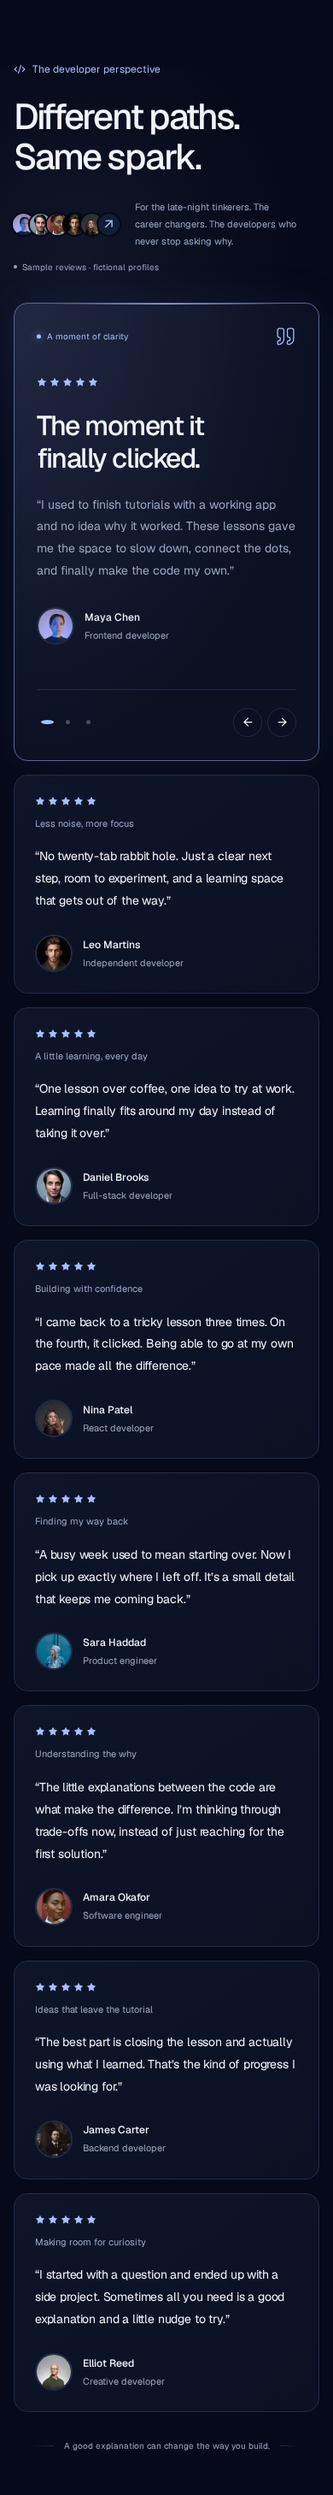
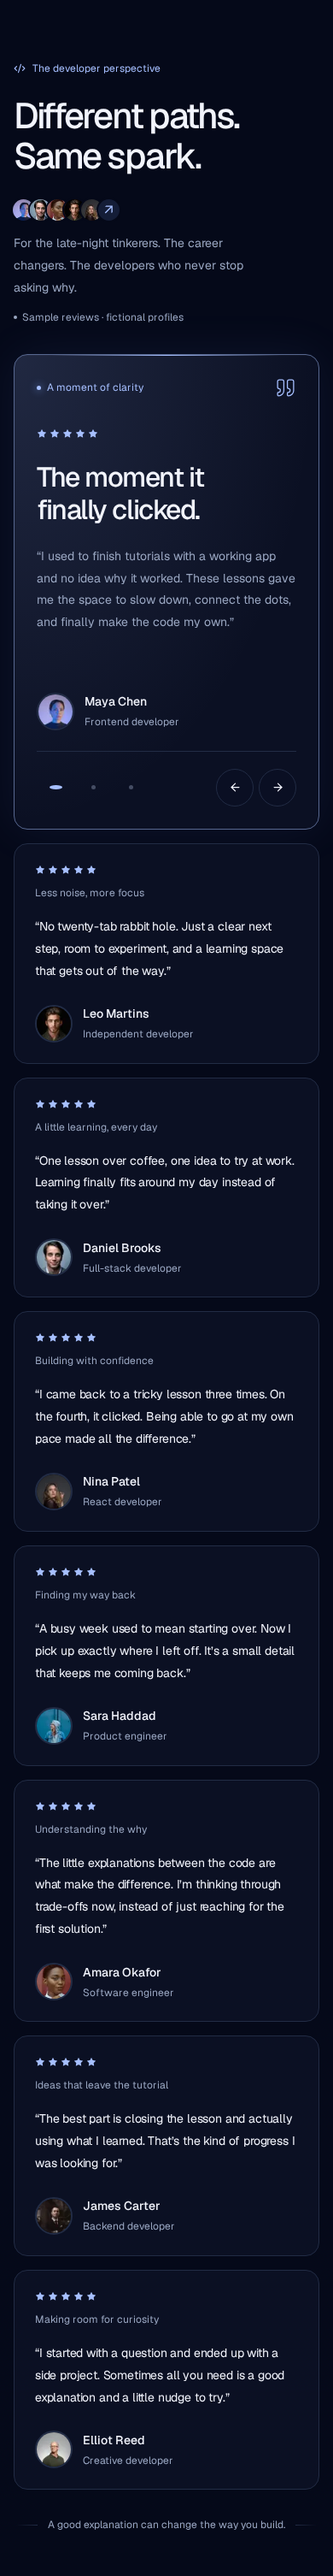
docs(design): record frontend review and refresh visual evidence

diff --git a/docs/design-system.md b/docs/design-system.md
@@ -37,27 +37,28 @@ New visitors see dark mode. The header toggle allows light mode; `next-themes` p
 - **Section titles:** `text-3xl sm:text-4xl font-medium tracking-[-.045em]` through `SectionHeading`.
 - **Card titles:** 18–20px, medium/semibold, tight tracking.
 - **Body:** 14–16px with 1.7–1.85 line height. Use `text-muted-foreground` for secondary copy.
-- **Metadata:** 12px. The scaled product demo uses smaller labels; regular application interfaces should retain readable 12–14px labels.
-- **Eyebrow:** `.eyebrow` uses 11px, uppercase, 0.18em tracking, primary color.
+- **Metadata:** 12px. The interactive demo uses 12px labels and 13–14px reading and control text; only its decorative window bar reduces to 11px on mobile.
+- **Eyebrow:** `.eyebrow` uses 12px, sentence case, medium weight, and primary color. Keep these labels short and useful; step numbers belong to the learning sequence.
 - **Spacing:** Tailwind's 4px grid. Use 16–24px gaps, 24–32px card padding, 64–96px section spacing.
 - **Container:** `.shell` caps content at `--page-width: 1120px`; gutters are 24px, falling to 16px on small screens.
 - **Radii:** `rounded-control` = 10px; `rounded-card` = 16px; `rounded-panel` = 24px. Pills are for badges and circular indicators.
 
 ## Components
 
-| Component                 | API / guidance                                                                                                                                                                                             |
-| ------------------------- | ---------------------------------------------------------------------------------------------------------------------------------------------------------------------------------------------------------- |
-| `Brand`                   | Shared star mark and Baela wordmark. Wrap in a home link with `aria-label="Baela home"`.                                                                                                                   |
-| `Button`                  | `variant`: default, secondary, outline, ghost, destructive. `size`: default, sm, lg, icon. Use `asChild` for links. Primary gets a subtle blue gradient and inset highlight.                               |
-| `Card` / `CardContent`    | Theme-aware surface and fine outline. `CardContent` provides 24px padding.                                                                                                                                 |
-| `Badge`                   | `variant`: default, muted, success. A compact status pill; use explicit readable text.                                                                                                                     |
-| `SectionHeading`          | Required `eyebrow` and `title`; optional `description`, `centered`, `className`, `id`.                                                                                                                     |
-| `LearningProgress`        | `value` (0–100), optional `label` and `className`. Clamps invalid values and supplies an accessible native progress bar with percentage.                                                                   |
-| `CourseCard`              | Real course title, summary, optional cover/price/progress. Supports an explicit `href`. Shares tokens with the dashboard.                                                                                  |
-| `.field` / `.field-label` | Theme-aware inputs, selects, textareas, and label spacing with visible focus.                                                                                                                              |
-| `LessonCurriculum`        | Existing desktop sidebar and mobile dialog inherit the palette; selected, completed, and locked states remain explicit.                                                                                    |
-| `TestimonialCard`         | `review`: name, role, local image, quote, subject, highlight. Theme-aware review surface with portrait, star row, and hover light. `ReviewAuthor` and `ReviewStars` can be composed into a featured story. |
-| `Faq`                     | `items`: question / ReactNode answer pairs; optional `className`. Native `details` and `summary` provide keyboard-accessible disclosure without client JavaScript.                                         |
+| Component                 | API / guidance                                                                                                                                                                                                   |
+| ------------------------- | ---------------------------------------------------------------------------------------------------------------------------------------------------------------------------------------------------------------- |
+| `Brand`                   | Shared star mark and Baela wordmark. Wrap in a home link with `aria-label="Baela home"`.                                                                                                                         |
+| `Button`                  | `variant`: default, secondary, outline, ghost, destructive. `size`: default, sm, lg, icon. Use `asChild` for links. Icon controls have a 44px target; primary actions use the semantic fill and inset highlight. |
+| `SiteHeaderContent`       | Shared header presentation with `signedIn` and `admin` props. `SiteHeader` supplies the real session; the gallery renders all three account variants for responsive inspection.                                  |
+| `Card` / `CardContent`    | Theme-aware surface and fine outline. `CardContent` provides 24px padding.                                                                                                                                       |
+| `Badge`                   | `variant`: default, muted, success. A compact status pill; use explicit readable text.                                                                                                                           |
+| `SectionHeading`          | Required `eyebrow` and `title`; optional `description`, `centered`, `className`, `id`.                                                                                                                           |
+| `LearningProgress`        | `value` (0–100), optional `label` and `className`. Clamps invalid values and supplies an accessible native progress bar with percentage.                                                                         |
+| `CourseCard`              | Real course title, summary, optional cover/price/progress. Supports an explicit `href`. Shares tokens with the dashboard.                                                                                        |
+| `.field` / `.field-label` | Theme-aware inputs, selects, textareas, and label spacing with visible focus.                                                                                                                                    |
+| `LessonCurriculum`        | Existing desktop sidebar and mobile dialog inherit the palette; selected, completed, and locked states remain explicit.                                                                                          |
+| `TestimonialCard`         | `review`: name, role, local image, quote, subject. Quiet theme-aware review surface with portrait and star row. `ReviewAuthor` and `ReviewStars` can be composed into a featured story.                          |
+| `Faq`                     | `items`: question / ReactNode answer pairs; optional `className`. Native `details` and `summary` provide keyboard-accessible disclosure without client JavaScript.                                               |
 
 ```tsx
 import { Card, CardContent } from "@/components/ui/card";
@@ -91,7 +92,7 @@ Use restrained surfaces in learning screens. Reserve the large horizon, broad gl
 
 ## Interaction and accessibility
 
-Use real links for navigation and buttons for state changes. Keep focus rings visible, icon-only controls labeled, inputs associated with labels, and progress labeled. Use a single H1 and ordered heading levels. The mobile navigation exposes `aria-expanded`; the skip link targets the main content. Honor `prefers-reduced-motion`. No demo animation auto-plays.
+Use real links for navigation and buttons for state changes. Keep focus rings visible, icon-only controls labeled, inputs associated with labels, and progress labeled. Use a single H1 and ordered heading levels. The mobile navigation exposes `aria-expanded` and a unique disclosure ID. Escape closes it and returns focus to the trigger; outside interaction, moving focus away, choosing a destination, and resizing to desktop dismiss it. It uses a disclosure rather than a modal focus trap. The skip link targets the main content. Honor `prefers-reduced-motion`. No demo animation auto-plays.
 
 Buttons, links, selects, checkbox/radio inputs, and expandable summaries use a pointer cursor. The shared `Button` declares it explicitly, including when rendered through `asChild`. Disabled buttons keep native disabled behavior and opacity; they do not use `pointer-events: none`, which would pass hovering through to the default page cursor.
 
@@ -99,11 +100,13 @@ The landing preview is explicitly labeled **Interactive demo / Sample content**.
 
 ## Reviews and FAQ patterns
 
-`DeveloperReviews` adds a staggered three-column wall and a larger featured quote. The layout was inspired by [21st.dev’s Testimonials with Marquee](https://21st.dev/@serafimcloud/components/testimonials-with-marquee) and its [testimonial section guide](https://mcp.21st.dev/blog/react-testimonial-section-components), implemented locally using existing components and CSS. It adds no animation-library dependency. Featured stories advance only through user actions; labeled arrows and selection buttons work with the keyboard, and updates use a polite live region. Story transitions respect reduced-motion settings.
+`DeveloperReviews` adds a staggered three-column wall and a larger featured quote. Tablet rows use at most two columns; mobile stories stack. The layout was inspired by [21st.dev’s Testimonials with Marquee](https://21st.dev/@serafimcloud/components/testimonials-with-marquee) and its [testimonial section guide](https://mcp.21st.dev/blog/react-testimonial-section-components), implemented locally using existing components and CSS. It adds no animation-library dependency. Featured stories advance only through user actions; labeled arrows and selection buttons have 44px touch targets and work with the keyboard. A persistent polite status region announces the author and quote, while the visible figure caption stays a direct child of the figure. Story transitions respect reduced-motion settings. Passive review cards do not animate or glow on hover.
 
 Review data lives in `components/landing/reviews-data.ts`. Names, developer roles, quotes, and star ratings are illustrative, visibly labeled **Sample reviews · fictional profiles**. Portraits are locally served stock photos; see `public/images/community/README.md`. Replace the data with consented, verified student feedback before presenting the section as actual endorsements. Do not attach structured-data ratings or claim learner counts to the sample content.
 
 `LearningFaq` uses the reusable `Faq` with six product questions. Keep answers aligned with implemented access, account, preview, and enrollment behavior. On mobile, the intro and disclosures stack; regular application FAQ text uses readable 13–14px type.
+
+The Open Graph image uses bundled Geist, the midnight palette, and the horizon. `app/icon.svg` is the editable star-mark source; `app/favicon.ico` contains 16px, 32px, and 48px versions of the same mark. Both are served through Next.js metadata file conventions.
 
 ## Extending the system
 

diff --git a/docs/frontend-review.md b/docs/frontend-review.md
@@ -1,0 +1,41 @@
+# Horizon frontend review
+
+## Design plan
+
+Continue the accepted reference rather than start a new identity. Baela is a course platform: the landing page should let a visitor understand the learning experience, try a lesson, and find a course or access plan.
+
+- Palette: midnight `#050919`, panel navy `#0b1023`, reading white `#f2f4fc`, horizon blue `#a6bfff`, supporting slate `#9aa7c2`, daylight `#f5f7fc`. Use the existing semantic tokens in both themes.
+- Type: bundled Geist Sans remains the single family. Its compact display proportions suit the horizon; normal tracking and sentence case make navigation and supporting labels easier to scan. Keep the large hero and give the functional demo readable text.
+- Layout: centered hero and preview; quiet course and plan sections; a staggered review wall; left-aligned FAQ. The header uses normal flow so extra account links have real space.
+
+```text
+Brand        Courses / How it works / Reviews / Pricing        Account actions
+                         illuminated horizon
+                         heading and actions
+                         interactive lesson preview
+                learning steps / real course collection
+              featured story | sample reviews | sample reviews
+                         three access options
+               questions intro | expandable answers
+                         final course action
+```
+
+On a narrow screen, the header becomes a dismissible disclosure, the preview becomes a readable single column, and stories, plans, and questions stack.
+
+## Review against the brief
+
+The blue horizon is the memorable element already approved by the user. Keep it and the hero composition. The quieter sections should not compete with it: remove hover glows from passive review cards, reduce decorative labels, and preserve meaningful step numbering only for the learning sequence. The fictional review disclosure remains clearly visible. Keep course data, access checks, and checkout states intact.
+
+The initial production review at 320, 390, 768, 1024, and 1440px found no page overflow or runtime errors in either theme. Escape did not dismiss the mobile navigation. Source review also found a remounted review live region, a nested figure caption, 24–34px review controls, and branding assets from the previous palette. These are the focus of the quality pass.
+
+## Final critique
+
+The horizon and centered hero remain the visual anchor. Sentence-case labels and direct learning-step copy keep the rest of the page quieter. The demo is now usable as a reading interface, with 13–14px functional text and a shorter breadcrumb on mobile. The sample-review disclosure is 12px, portraits remain local, and passive cards have no hover glow.
+
+The header uses normal flow and its visitor, student, and administrator variants are available in the gallery. Mobile disclosure dismisses on Escape, outside interaction, focus leaving, destination selection, and switching to a desktop viewport. Review controls have 44px targets, a persistent announcement region, and stable placement across all three featured stories, including at 320px.
+
+The light-theme primary action previously faded toward a fill with approximately 4:1 contrast against white text. Its semantic solid blue now gives approximately 6:1. The editable SVG star, multi-size ICO, and bundled-font Open Graph image complete the same identity outside the page.
+
+## Verification
+
+Final screenshots and check results are recorded in `design/previews/README.md` after the production review. Public browser coverage uses unconfigured database and authentication; it does not verify live payments or student sessions.

diff --git a/design/previews/README.md b/design/previews/README.md
@@ -1,6 +1,6 @@
 # Horizon previews
 
-Captured from the production build on 2026-10-05.
+Captured from the final webpack production build on 2026-10-06 after the frontend-design quality review.
 
 - `desktop-hero.png`: 1440 × 1000 first viewport.
 - `desktop-dark.png` / `desktop-light.png`: complete landing page at 1440px.
@@ -8,8 +8,17 @@ Captured from the production build on 2026-10-05.
 - `design-system-light.png`: complete component gallery at 1440px.
 - `reviews-desktop.png` / `reviews-desktop-light.png`: the developer review wall in both themes.
 - `reviews-mobile.png`: the stacked review layout at 390px.
+- `reviews-tablet-light.png`: the two-column review layout at 768px.
+- `demo-mobile-light.png` / `lesson-mobile-dark.png`: the readable mobile demo and lesson at 390px.
 - `faq-desktop.png`: the FAQ section at 1440px.
+- `navigation-desktop.png`: visitor, student, and admin header presentations in the gallery.
+- `opengraph.png`: the generated Horizon social preview, using bundled Geist.
+- `measurements.json`: overflow, loaded-portrait, runtime-error, and featured-story-height results for both themes at all six widths.
 
-Validation: lint and TypeScript passed; all 69 Vitest tests passed; the webpack production build passed; all 33 Playwright checks across desktop Chromium, mobile Chromium, and Firefox passed. Checks include review selection, FAQ keyboard interaction, pointer cursors on enabled/disabled controls, and closed-enrollment behavior. Landing and gallery layouts were also checked at 320, 360, 390, 768, 1024, and 1440px with no horizontal overflow or browser errors. Both themes were visually inspected.
+Validation: lint and TypeScript passed; all 69 Vitest tests passed; the webpack production build passed; all 42 Playwright checks across desktop Chromium, mobile Chromium, and Firefox passed. Checks include menu dismissal with Escape, outside interaction, focus departure, and resizing; all three account header layouts in both themes; persistent review announcements; 44px review controls; stable featured-story height at 320px; reduced motion; FAQ keyboard interaction; pointer cursors on enabled/disabled controls; and closed-enrollment behavior.
+
+The landing was captured and visually reviewed at 320, 360, 390, 768, 1024, and 1440px in both themes, including the overview and lesson views. The gallery was checked at the same widths through its navigation regression and inspected in the final desktop render. No horizontal page overflow or runtime errors were observed. All local portraits loaded, and switching among featured reviews preserves the card height at each tested width. The social preview, SVG icon, and ICO favicon all returned successful responses with their expected image types.
+
+The primary light-theme fill gives white action text approximately 6:1 contrast. Reviews remain visibly marked as fictional samples. The tests run with database and authentication unconfigured; live student sessions, payments, and private media remain outside these checks.
 
 WebKit browser checks remain unverified because this host lacks the required `libicu74`, `libxml2`, and `libflite1` browser dependencies.
